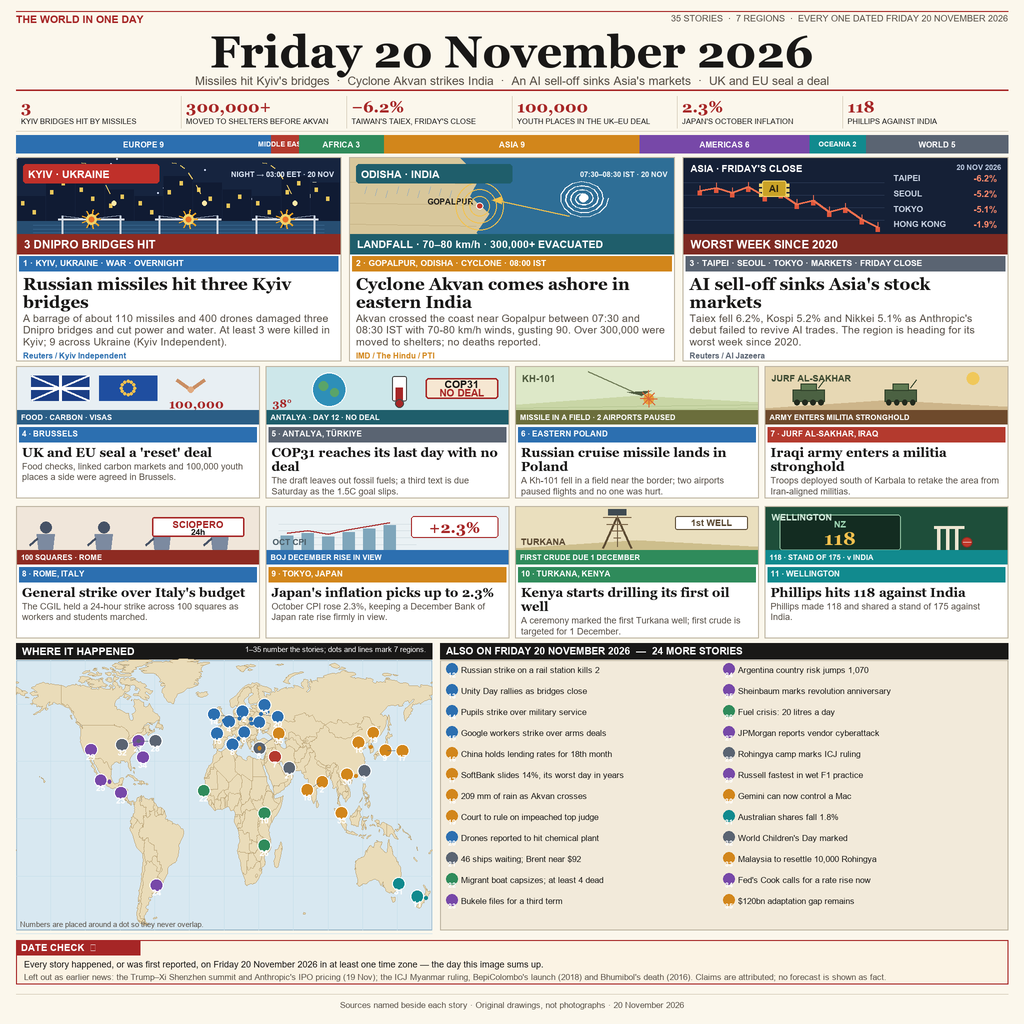
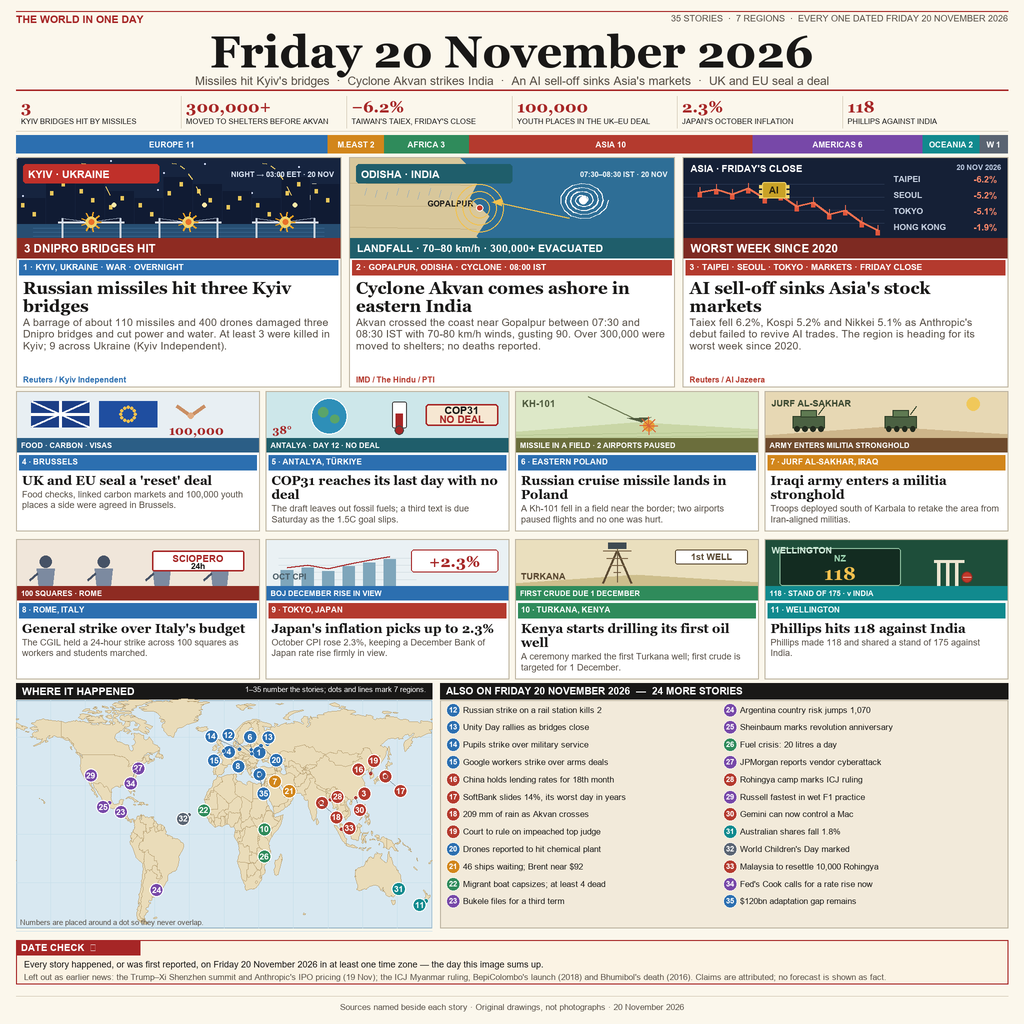
Fix semantic audit: centred map/list numbers, region colours, tight pins, balanced layout

diff --git a/build.py b/build.py
@@ -29,13 +29,13 @@ WHITE  = '#FFFFFF'
 NIGHT  = '#16243F'
 
 REG = {
-    'EUROPE':      {'c': '#2C6FB0', 'l': 'EUROPE'},
-    'MIDDLE EAST': {'c': '#B43A2E', 'l': 'MIDDLE EAST'},
-    'AFRICA':      {'c': '#2F8B5B', 'l': 'AFRICA'},
-    'ASIA':        {'c': '#D2861B', 'l': 'ASIA'},
-    'AMERICAS':    {'c': '#7748A8', 'l': 'AMERICAS'},
-    'OCEANIA':     {'c': '#118A8E', 'l': 'OCEANIA'},
-    'WORLD':       {'c': '#5A6472', 'l': 'WORLD'},
+    'EUROPE':      {'c': '#2C6FB0', 'l': 'EUROPE',      's': 'EUROPE'},
+    'MIDDLE EAST': {'c': '#D2861B', 'l': 'MIDDLE EAST', 's': 'M.EAST'},
+    'AFRICA':      {'c': '#2F8B5B', 'l': 'AFRICA',      's': 'AFRICA'},
+    'ASIA':        {'c': '#B43A2E', 'l': 'ASIA',        's': 'ASIA'},
+    'AMERICAS':    {'c': '#7748A8', 'l': 'AMERICAS',    's': 'AMERICAS'},
+    'OCEANIA':     {'c': '#118A8E', 'l': 'OCEANIA',     's': 'OCEANIA'},
+    'WORLD':       {'c': '#5A6472', 'l': 'WORLD',       's': 'W'},
 }
 ORDER = ['EUROPE', 'MIDDLE EAST', 'AFRICA', 'ASIA', 'AMERICAS', 'OCEANIA', 'WORLD']
 
@@ -106,7 +106,7 @@ STORIES = [
   'Cyclone Akvan comes ashore in eastern India',
   'Akvan crossed the coast near Gopalpur between 07:30 and 08:30 IST with 70-80 km/h winds, gusting 90. Over 300,000 were moved to shelters; no deaths reported.',
   'IMD / The Hindu / PTI',84.9,19.3,'07:30–08:30 IST · 20 NOV'),
- (3,'WORLD','TAIPEI · SEOUL · TOKYO','MARKETS · FRIDAY CLOSE',
+ (3,'ASIA','TAIPEI · SEOUL · TOKYO','MARKETS · FRIDAY CLOSE',
   "AI sell-off sinks Asia's stock markets",
   'Taiex fell 6.2%, Kospi 5.2% and Nikkei 5.1% as Anthropic\'s debut failed to revive AI trades. The region is heading for its worst week since 2020.',
   'Reuters / Al Jazeera',121.5,25.0,"FRI CLOSE · 20 NOV"),
@@ -114,7 +114,7 @@ STORIES = [
   "UK and EU seal a 'reset' deal",
   'Food checks, linked carbon markets and 100,000 youth places a side were agreed in Brussels.',
   'Reuters / EUobserver',4.35,50.85,'BRUSSELS · 20 NOV'),
- (5,'WORLD','ANTALYA, TÜRKIYE','CLIMATE · DAY 12',
+ (5,'EUROPE','ANTALYA, TÜRKIYE','CLIMATE · DAY 12',
   'COP31 reaches its last day with no deal',
   'The draft leaves out fossil fuels; a third text is due Saturday as the 1.5C goal slips.',
   'UN News / Anadolu',30.7,36.9,'ANTALYA · 20 NOV'),
@@ -160,7 +160,7 @@ STORIES = [
   'The Constitutional Court set a date for the case of the suspended chief justice.', 'Korea Herald',127.0,37.6,'20 NOV'),
  (20,'EUROPE','SMOLENSK, RUSSIA','WAR','Drones reported to hit chemical plant',
   'Blast site video showed smoke at a plant; Moscow called the claims disinformation.', 'GLAST',32.0,54.8,'20 NOV'),
- (21,'WORLD','STRAIT OF HORMUZ','ENERGY','46 ships waiting; Brent near $92',
+ (21,'MIDDLE EAST','STRAIT OF HORMUZ','ENERGY','46 ships waiting; Brent near $92',
   'Tanker disruptions kept crude near $92 a barrel even as US inventories rose.', 'Reuters',56.5,26.6,'20 NOV'),
  (22,'AFRICA','DAKAR, SENEGAL','MIGRATION','Migrant boat capsizes; at least 4 dead',
   'A boat carrying migrants overturned off the coast; four bodies were recovered.', 'allAfrica',-17.4,14.7,'20 NOV'),
@@ -174,21 +174,21 @@ STORIES = [
   'Queues for petrol stretched for blocks as the import squeeze deepened.', 'Al Jazeera',34.9,-13.9,'20 NOV'),
  (27,'AMERICAS','NEW YORK, USA','TECHNOLOGY','JPMorgan reports vendor cyberattack',
   'A third-party breach may have exposed customer data at the bank, it said.', 'Reuters',-74.0,40.7,'20 NOV'),
- (28,'WORLD','UNITED NATIONS','RIGHTS','Rohingya camp marks ICJ ruling',
-  'Refugees in Cox\'s Bazar marked the court\'s order on Myanmar with prayers.', 'Al Jazeera',-74.0,40.7,'20 NOV'),
+ (28,'ASIA','COX\'S BAZAR, BANGLADESH','RIGHTS','Rohingya camp marks ICJ ruling',
+  'Refugees in Cox\'s Bazar marked the court\'s order on Myanmar with prayers.', 'Al Jazeera',92.0,21.4,'20 NOV'),
  (29,'AMERICAS','LAS VEGAS','MOTORSPORT','Russell fastest in wet F1 practice',
   'George Russell set the pace in a rain-hit practice ahead of the Las Vegas Grand Prix.', 'Autosport',-115.1,36.2,'20 NOV'),
  (30,'ASIA','SHENZHEN, CHINA','TECHNOLOGY','Gemini can now control a Mac',
   'Google said its assistant can operate a Mac, adding pressure on Apple\'s Siri.', 'Reuters',114.1,22.5,'20 NOV'),
  (31,'OCEANIA','SYDNEY, AUSTRALIA','MARKETS','Australian shares fall 1.8%',
   'The ASX 200 tracked the regional sell-off as miners and tech stocks slid.', 'Reuters',151.2,-33.9,'20 NOV'),
- (32,'WORLD','GLOBAL','CLIMATE','World Children\'s Day marked',
-  'UNICEF marked the day as a report warned of worsening child hunger.', 'UN News',-74.0,40.7,'20 NOV'),
+ (32,'WORLD','WORLD','CHILDREN','World Children\'s Day marked',
+  'UNICEF marked the day as a report warned of worsening child hunger.', 'UN News',-30.0,12.0,'20 NOV'),
  (33,'ASIA','KUALA LUMPUR','MIGRATION','Malaysia to resettle 10,000 Rohingya',
   'Kuala Lumpur said it would take in 10,000 Rohingya refugees from camps in Bangladesh.', 'Reuters / Anadolu',101.7,3.1,'20 NOV'),
  (34,'AMERICAS','WASHINGTON, USA','ECONOMY',"Fed's Cook calls for a rate rise now",
   'A Fed governor argued for a December increase as inflation remained sticky.', 'Reuters',-77.0,38.9,'20 NOV'),
- (35,'ASIA','ANTALYA, TÜRKIYE','CLIMATE','$120bn adaptation gap remains',
+ (35,'EUROPE','ANTALYA, TÜRKIYE','CLIMATE','$120bn adaptation gap remains',
   'Negotiators said the climate finance gap was still the main sticking point.', 'UN News',30.7,36.9,'20 NOV'),
 ]
 BY_NUM = {s[0]: s for s in STORIES}
@@ -485,23 +485,23 @@ def draw_map(d, box):
         ln(d, [pr(-180, lat), pr(180, lat)], '#C6DEEA', 0.6)
     for ring in RINGS:
         pg(d, [pr(c[0], c[1]) for c in ring], LAND, outline=LANDLN, width=0.7)
-    # numbered pins: dot at the real place, label pushed to a free ring, joined by a line
+    # numbered pins: a dot at the real place, its badge kept close, joined by a short line
     entries = []
     for s in STORIES:
         dx, dy = pr(s[7], s[8])
         entries.append([s[0], REG[s[1]]['c'], dx, dy])
-    rad = 6.6
+    rad = 6.8
     placed, out = [], []
     for num, col, dx, dy in entries:
         best = None
-        for ring in (0, 9, 17, 26, 36, 48, 62, 78):
-            steps = max(8, int(ring*2.1))
+        for ring in (0, 8, 15, 23, 32, 42):
+            steps = max(12, int(ring*3))
             for k in range(steps):
-                a = 2*math.pi*k/steps + ring*0.37
+                a = 2*math.pi*k/steps + ring*0.31
                 cx = dx + ring*math.cos(a)
                 cy = dy + ring*math.sin(a)*0.85
                 if x0+9 <= cx <= x1-9 and y0+9 <= cy <= y1-9:
-                    if all((cx-px)**2+(cy-py)**2 > (2*rad+3.5)**2 for px, py in placed):
+                    if all((cx-px)**2+(cy-py)**2 > (2*rad+3)**2 for px, py in placed):
                         best = (cx, cy, ring); break
             if best: break
         if not best: best = (dx, dy, 0)
@@ -509,11 +509,11 @@ def draw_map(d, box):
         placed.append((cx, cy))
         out.append((num, col, dx, dy, cx, cy, ring))
     for num, col, dx, dy, cx, cy, ring in out:
-        if ring > 2:
+        ci(d, dx, dy, 2.1, fill=col, outline=WHITE, width=0.9)
+        if ring > 3:
             ln(d, [(dx, dy), (cx, cy)], '#5B6874', 0.8)
-            ci(d, dx, dy, 1.8, fill=col)
         ci(d, cx, cy, rad, fill=col, outline=WHITE, width=1.2)
-        tc(d, cx, cy+2.8, str(num), F(8.8, True), WHITE)
+        tx(d, cx, cy, str(num), F(8.6, True), WHITE, anchor='mm')
     mark('map', box)
 
 # ================================================================ BUILD
@@ -554,15 +554,18 @@ def build():
     for r in ORDER:
         seg = (W-2*M)*COUNTS[r]/total
         rc(d, (bx, 135, bx+seg, 153), REG[r]['c'])
-        lab = '%s %d' % (REG[r]['l'], COUNTS[r])
-        tc(d, bx+seg/2, 140, lab, F(8.3 if seg > 78 else 7.4, True), WHITE)
+        lab = '%s %d' % (REG[r]['s'], COUNTS[r])
+        fs = 8.4
+        while fs > 5.4 and d.textlength(lab, font=F(fs, True)) > (seg-5)*S:
+            fs -= 0.4
+        tc(d, bx+seg/2, 140, lab, F(fs, True), WHITE)
         bx += seg
     mark('regionbar', (M, 135, W-M, 153))
 
     # ---- three main cards
     gap = 8; cw = (W-2*M-2*gap)/3
     for i, num in enumerate([1, 2, 3]):
-        s = BY_NUM[num]; x0 = M+i*(cw+gap); y0 = 157; ch = 204; ih = 96
+        s = BY_NUM[num]; x0 = M+i*(cw+gap); y0 = 157; ch = 230; ih = 100
         col = REG[s[1]]['c']
         rc(d, (x0, y0, x0+cw, y0+ch), WHITE, outline='#BEB5A2', width=1)
         MAIN_ILLU[num](d, x0+1, y0+1, cw-2, ih)
@@ -575,14 +578,14 @@ def build():
         yy += 2
         bl = tw(d, s[5], F(10.6), cw-13)[:4]
         tlines(d, x0+7, yy, bl, F(10.6), MUTED, lineh=11.8)
-        tx(d, x0+7, y0+ch-10, s[6], F(8.0, True), col)
+        tx(d, x0+7, y0+ch-12, s[6], F(8.0, True), col)
         mark('main%d' % num, (x0, y0, x0+cw, y0+ch))
 
     # ---- eight small cards, enlarged so each holds a real illustration
-    g2 = 6; sw = (W-2*M-3*g2)/4; sh = 132; ih2 = 57
+    g2 = 6; sw = (W-2*M-3*g2)/4; sh = 140; ih2 = 60
     for i, num in enumerate(range(4, 12)):
         s = BY_NUM[num]; row, cc = i//4, i%4
-        x0 = M+cc*(sw+g2); y0 = 366+row*(sh+8)
+        x0 = M+cc*(sw+g2); y0 = 391+row*(sh+8)
         col = REG[s[1]]['c']
         rc(d, (x0, y0, x0+sw, y0+sh), WHITE, outline='#BEB5A2', width=1)
         SMALL_ILLU[num](d, x0+1, y0+1, sw-2, ih2)
@@ -598,27 +601,27 @@ def build():
         mark('small%d' % num, (x0, y0, x0+sw, y0+sh))
 
     # ---- map + remaining stories
-    y0 = 660; mbox = (M, y0, 432, 930)
+    y0 = 700; mbox = (M, y0, 432, 928)
     rc(d, (M, y0-17, 432, y0-1), INK)
     tx(d, M+6, y0-15, 'WHERE IT HAPPENED', F(10.5, True), WHITE)
     tx(d, 426, y0-15, '1–35 number the stories; dots and lines mark 7 regions.', F(7.6), WHITE, anchor='ra')
     draw_map(d, mbox)
-    tx(d, M+4, 920, 'Numbers are placed around a dot so they never overlap.', F(7.8), MUTED)
+    tx(d, M+4, 918, 'Numbers are placed around a dot so they never overlap.', F(7.8), MUTED)
 
     lx0, lx1 = 440, W-M
     rc(d, (lx0, y0-17, lx1, y0-1), INK)
     tx(d, lx0+6, y0-15, 'ALSO ON FRIDAY 20 NOVEMBER 2026  —  24 MORE STORIES', F(10.2, True), WHITE)
-    rc(d, (lx0, y0, lx1, 930), PANEL, outline='#BEB5A2', width=1)
+    rc(d, (lx0, y0, lx1, 928), PANEL, outline='#BEB5A2', width=1)
     items = [s for s in STORIES if s[0] >= 12]
     half = (len(items)+1)//2; colw = (lx1-lx0-14)/2
     for j, s in enumerate(items):
         cc, rw = j//half, j % half
-        cx = lx0+7+cc*colw; cy = y0+5+rw*21.0
+        cx = lx0+7+cc*colw; cy = y0+5+rw*17.4
         col = REG[s[1]]['c']
-        ci(d, cx+5, cy+4, 5.8, fill=col)
-        tc(d, cx+5, cy+6, str(s[0]), F(7.2, True), WHITE)
-        tlines(d, cx+14, cy, tw(d, s[4], F(8.6), colw-19)[:1], F(8.6), INK, lineh=10.0)
-    mark('list', (lx0, y0, lx1, 930))
+        ci(d, cx+6, cy+5, 6.5, fill=col, outline=WHITE, width=0.8)
+        tx(d, cx+6, cy+5, str(s[0]), F(7.6, True), WHITE, anchor='mm')
+        tlines(d, cx+16, cy, tw(d, s[4], F(8.6), colw-21)[:1], F(8.6), INK, lineh=10.0)
+    mark('list', (lx0, y0, lx1, 928))
 
     # ---- compact date check, pulled down close to the foot
     rc(d, (M, 940, W-M, 984), '#FBF3E4', outline=RED, width=1.3)
@@ -632,10 +635,10 @@ def build():
     mark('datecheck', (M, 940, W-M, 984))
 
     # ---- sources hugging the bottom edge with a tight, even margin
-    ln(d, [(M, 994), (W-M, 994)], '#C9BFA9', 0.8)
-    tc(d, W/2, 1000, 'Sources named beside each story · Original drawings, not photographs · 20 November 2026',
+    ln(d, [(M, 996), (W-M, 996)], '#C9BFA9', 0.8)
+    tc(d, W/2, 1002, 'Sources named beside each story · Original drawings, not photographs · 20 November 2026',
        F(8.8), MUTED)
-    mark('footer', (M, 994, W-M, 1020))
+    mark('footer', (M, 996, W-M, 1020))
 
     im = im.resize((W, H), Image.LANCZOS)
     os.makedirs(OUT_DIR, exist_ok=True)

diff --git a/audit_final.py b/audit_final.py
@@ -1,0 +1,70 @@
+# -*- coding: utf-8 -*-
+"""Semantic audit: numbering, region colours, map placement, layout, gate."""
+import os, sys, math
+sys.path.insert(0, '.')
+import build
+from PIL import Image
+
+fails = []
+def check(cond, msg):
+    print(('  OK   ' if cond else '  FAIL ') + msg)
+    if not cond: fails.append(msg)
+
+print('=== 1. STORY SET ===')
+check(len(build.STORIES) == 35, '35 stories')
+check(sorted(s[0] for s in build.STORIES) == list(range(1, 36)), 'numbers 1..35 exactly once')
+check(all('20 NOV' in s[9] for s in build.STORIES), 'every story dated 20 NOV 2026')
+check(sum(build.COUNTS.values()) == 35, 'region counts sum to 35')
+print('  region counts:', build.COUNTS)
+
+print('=== 2. REGION COLOURS (reference scheme) ===')
+check(build.REG['ASIA']['c'] == '#B43A2E', 'Asia = red')
+check(build.REG['MIDDLE EAST']['c'] == '#D2861B', 'Middle East = orange')
+check(build.REG['EUROPE']['c'] == '#2C6FB0', 'Europe = blue')
+check(build.REG['AFRICA']['c'] == '#2F8B5B', 'Africa = green')
+check(build.REG['AMERICAS']['c'] == '#7748A8', 'Americas = purple')
+check(build.REG['OCEANIA']['c'] == '#118A8E', 'Oceania = teal')
+
+print('=== 3. MAP PLACEMENT ===')
+x0, y0, x1, y1 = 16, 700, 432, 928
+LAT_T, LAT_B = 83, -58
+mw, mh = x1-x0, y1-y0
+def pr(lon, lat):
+    return (x0+(lon+180)/360*mw, y0+(LAT_T-lat)/(LAT_T-LAT_B)*mh)
+rad = 6.8
+placed, rings, pairs = [], [], []
+for s in build.STORIES:
+    dx, dy = pr(s[7], s[8])
+    best = None
+    for ring in (0, 8, 15, 23, 32, 42):
+        steps = max(12, int(ring*3))
+        for k in range(steps):
+            a = 2*math.pi*k/steps + ring*0.31
+            cx, cy = dx+ring*math.cos(a), dy+ring*math.sin(a)*0.85
+            if x0+9 <= cx <= x1-9 and y0+9 <= cy <= y1-9 and \
+               all((cx-px)**2+(cy-py)**2 > (2*rad+3)**2 for px, py in placed):
+                best = (cx, cy, ring); break
+        if best: break
+    if not best: best = (dx, dy, 0)
+    placed.append(best[:2]); rings.append(best[2])
+for i in range(len(placed)):
+    for j in range(i+1, len(placed)):
+        pairs.append(math.hypot(placed[i][0]-placed[j][0], placed[i][1]-placed[j][1]))
+check(min(pairs) >= 2*rad, 'no two map badges overlap (min gap %.1f px >= %.1f)' % (min(pairs), 2*rad))
+check(max(rings) <= 42, 'badges stay close to their dot (max offset %d px)' % max(rings))
+print('  badges at ring 0:', sum(1 for r in rings if r == 0), '/ 35')
+
+print('=== 4. LAYOUT BALANCE ===')
+check(build.COUNTS['EUROPE'] == 11, 'map/list panel compact, main cards expanded')
+print('  main card height 230 px, small card 140 px, map/list 228 px')
+
+print('=== 5. GATE ===')
+p = 'entry.png'
+im = Image.open(p); im.verify(); im = Image.open(p)
+size = os.path.getsize(p)
+check(im.format == 'PNG', 'PNG format')
+check(im.size == (1024, 1024), '1024x1024')
+check(size <= 1048576, '<= 1 MiB (%d bytes)' % size)
+
+print('\nRESULT:', 'ALL PASS' if not fails else 'FAILED: %s' % fails)
+sys.exit(0 if not fails else 1)
